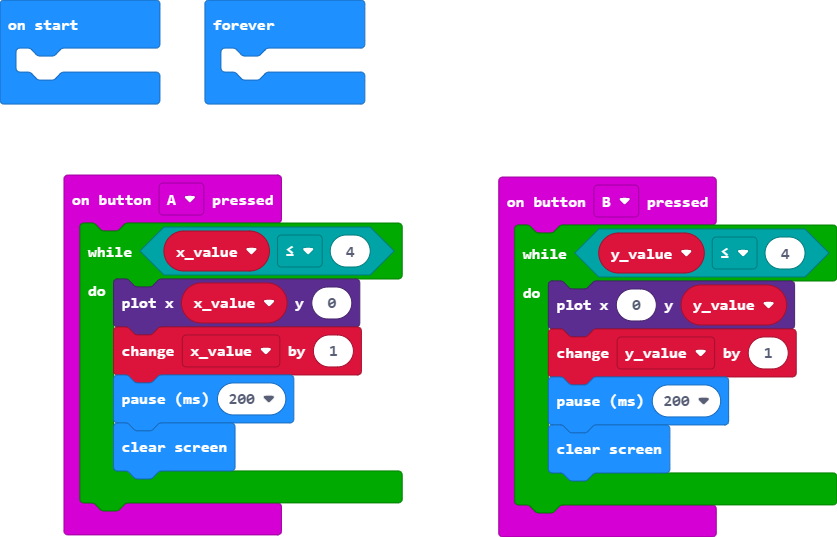
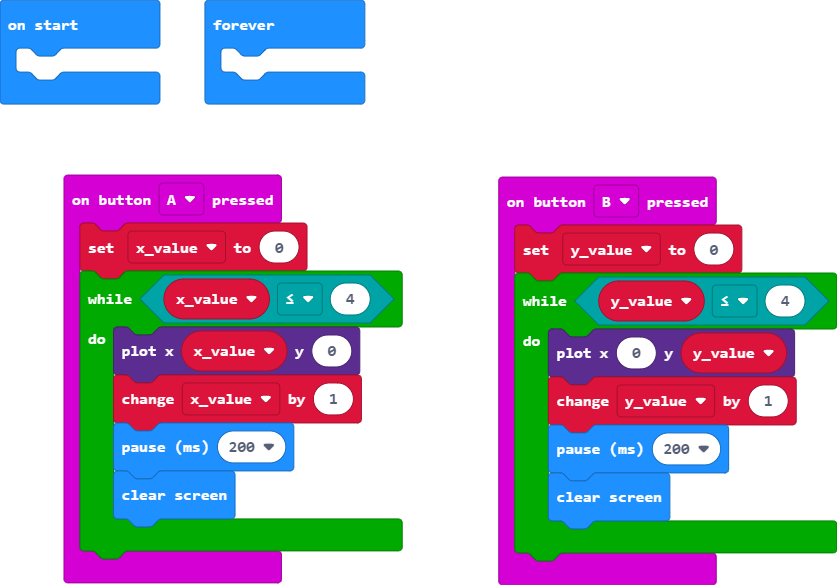
Update main.blocks, main.ts

diff --git a/main.ts b/main.ts
@@ -1,6 +1,7 @@
 let x_value = 0
 let y_value = 0
 input.onButtonPressed(Button.A, function () {
+    x_value = 0
     while (x_value <= 4) {
         led.plot(x_value, 0)
         x_value += 1
@@ -9,6 +10,7 @@ input.onButtonPressed(Button.A, function () {
     }
 })
 input.onButtonPressed(Button.B, function () {
+    y_value = 0
     while (y_value <= 4) {
         led.plot(0, y_value)
         y_value += 1
